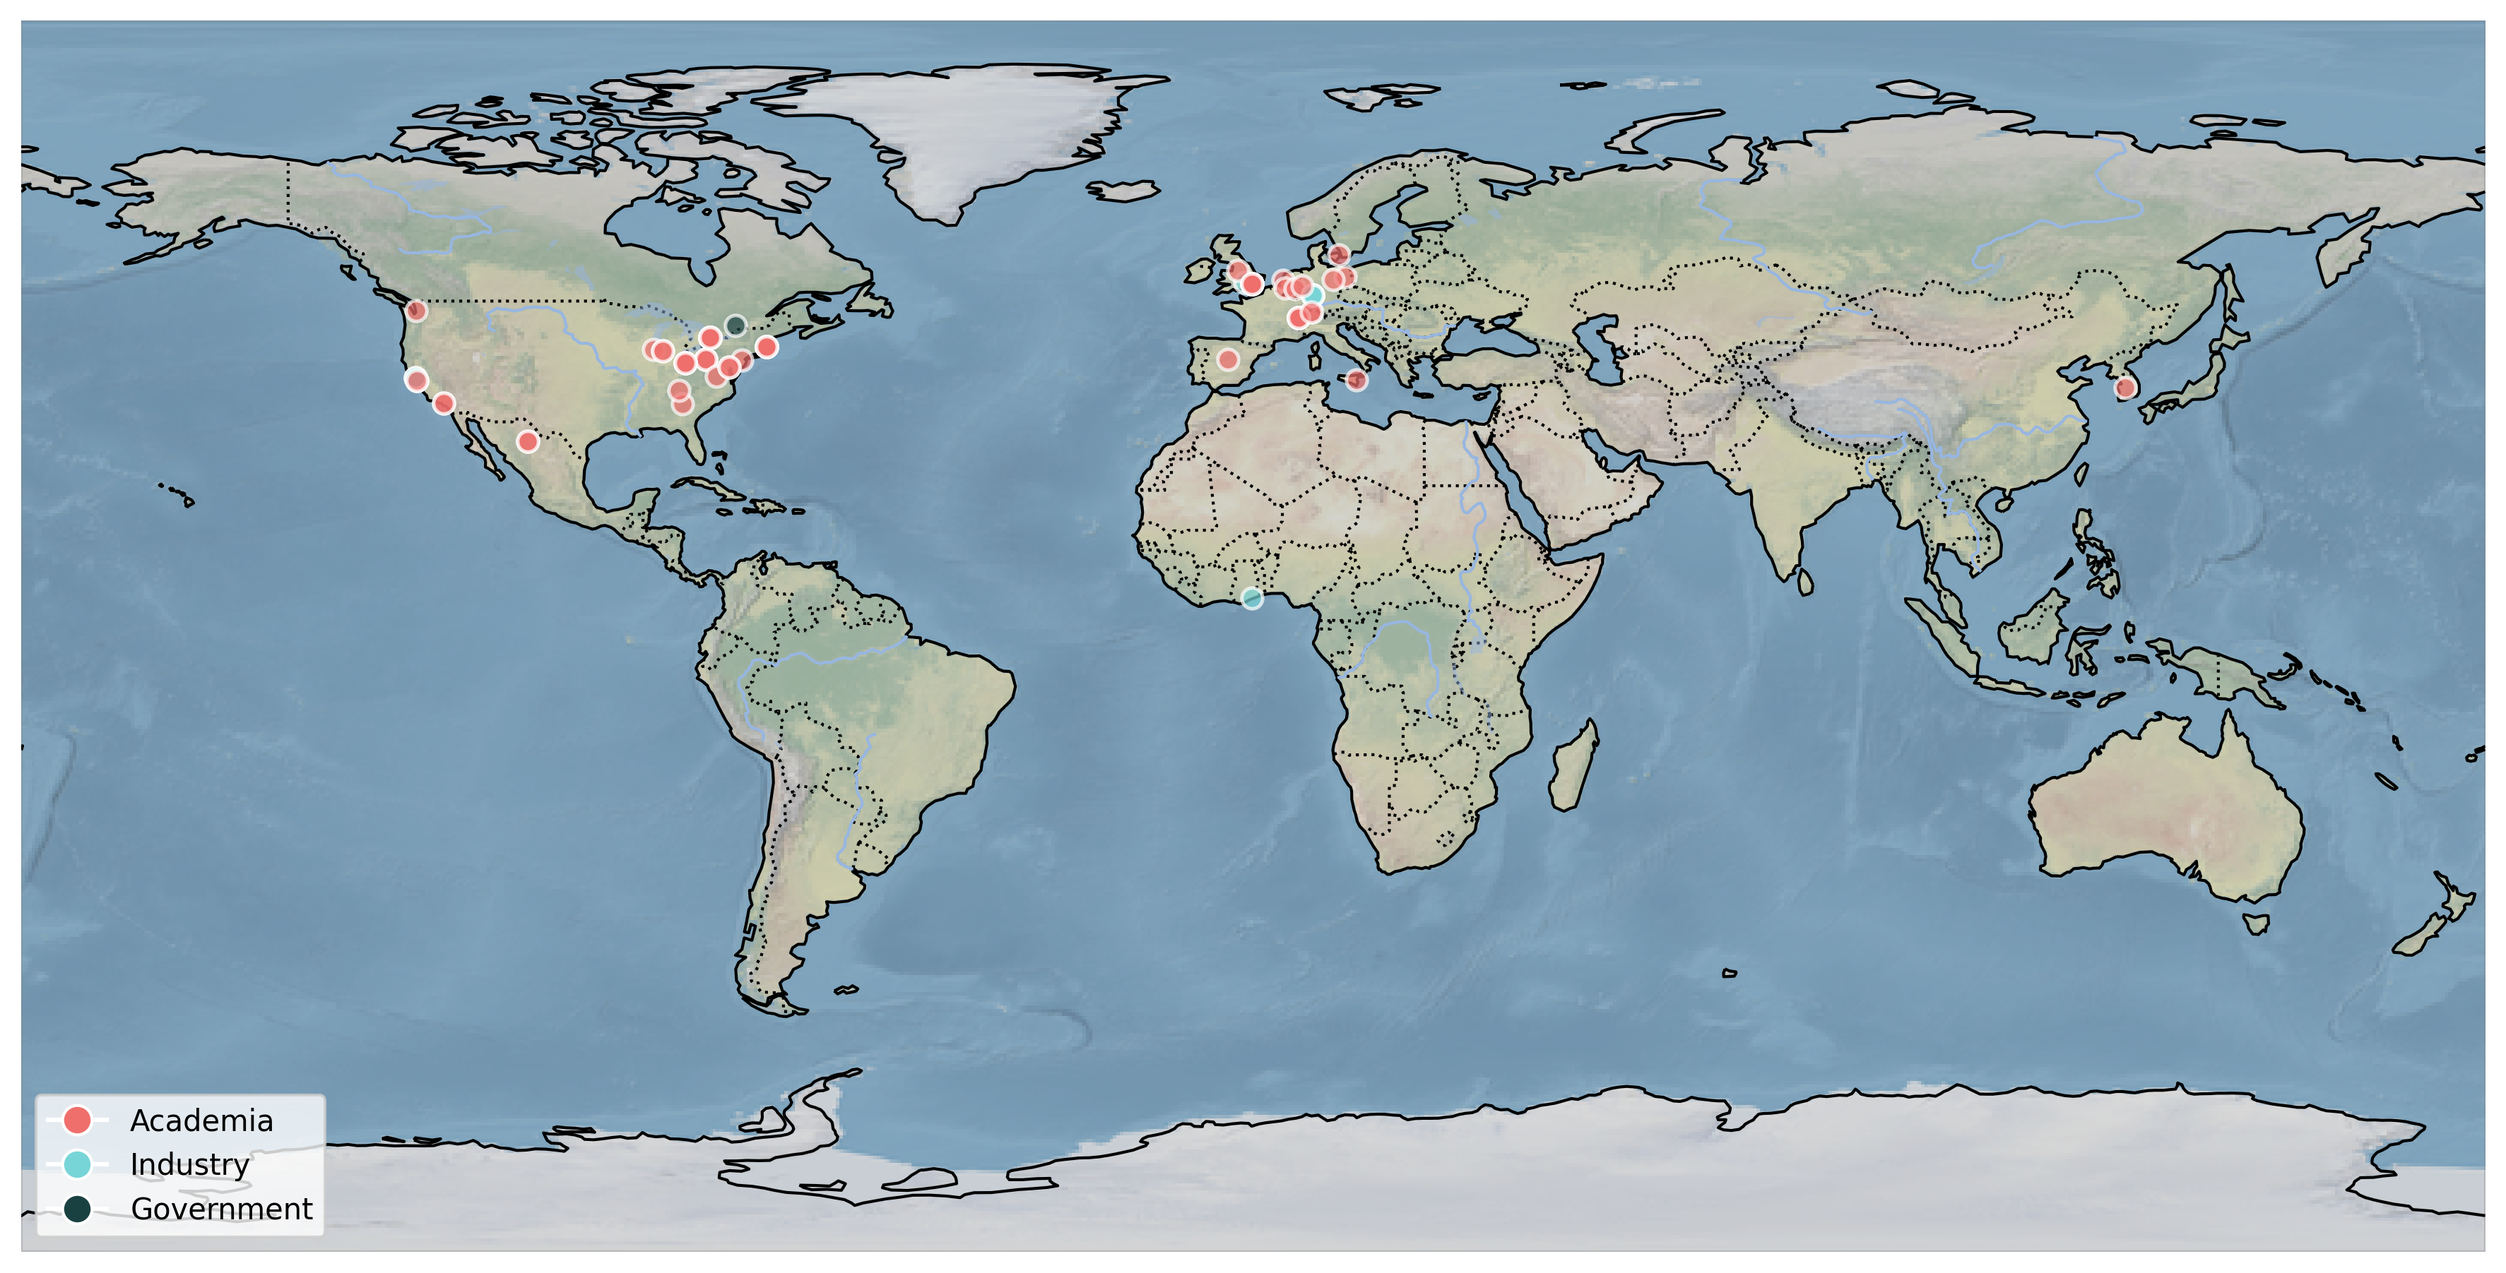
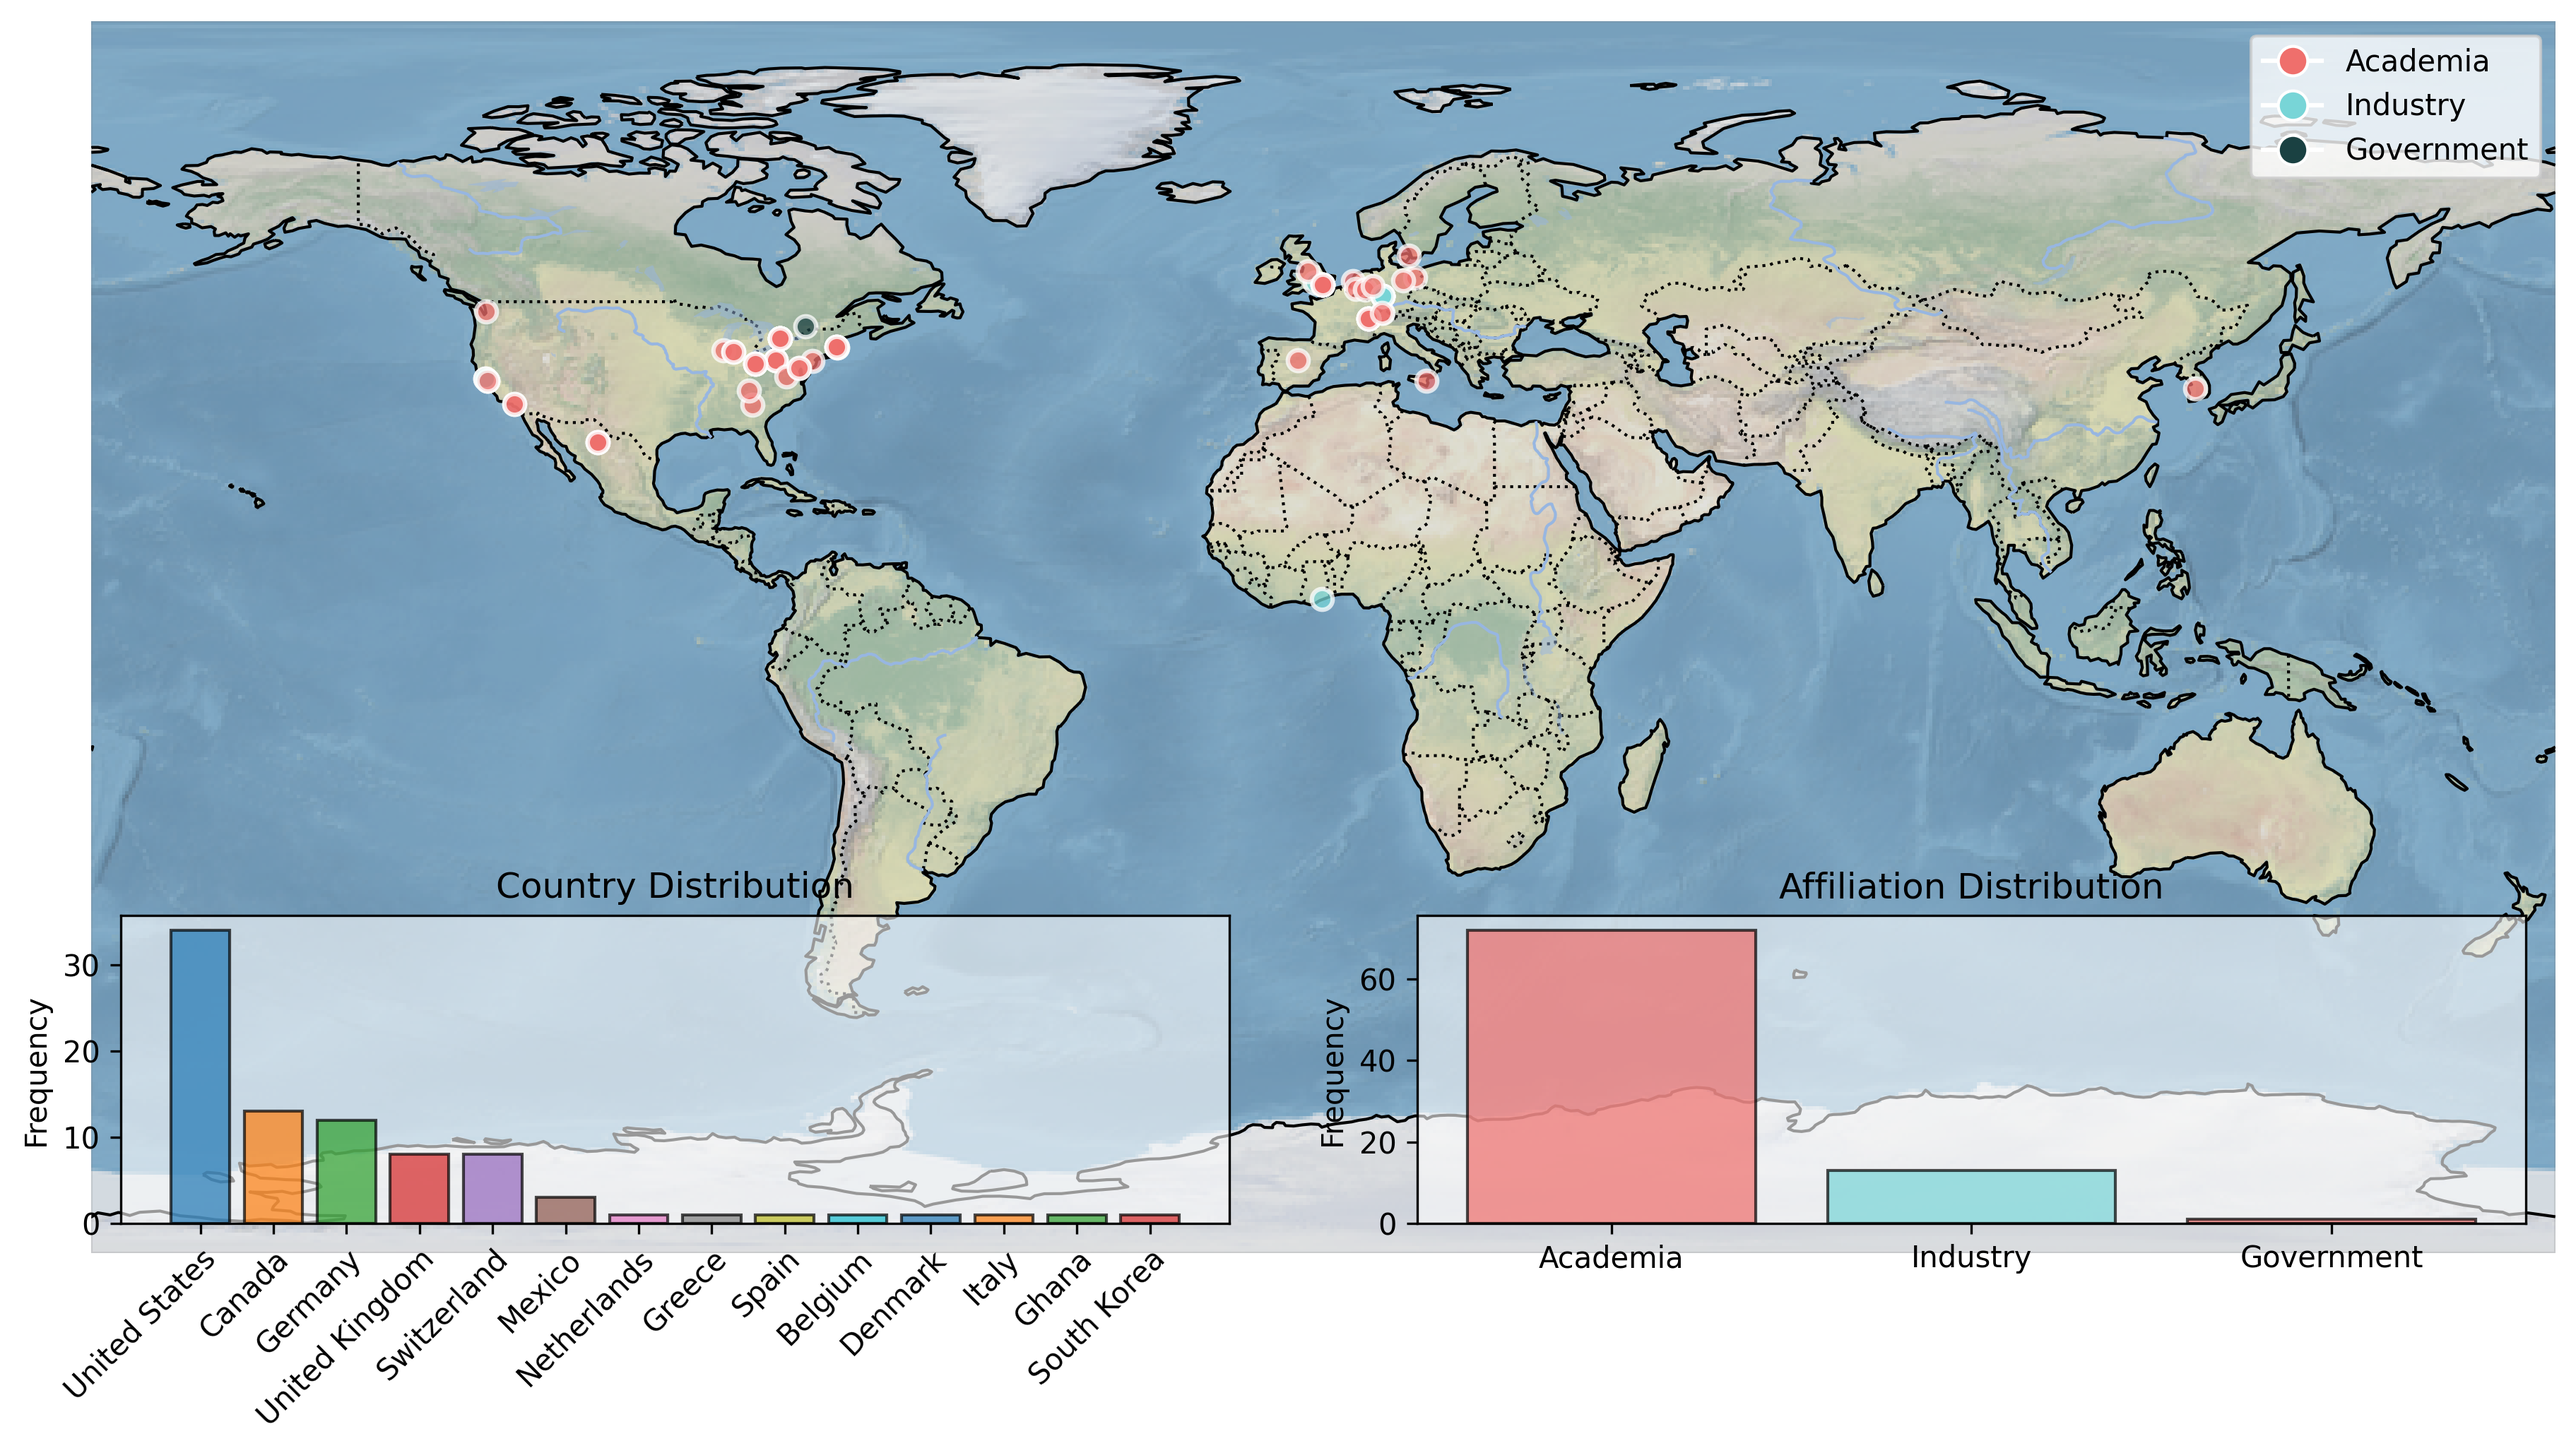
Updates from Overleaf

diff --git a/main.tex b/main.tex
@@ -1,7 +1,7 @@
 \PassOptionsToPackage{hyphens}{url}
-\documentclass[superscriptaddress, nofootinbib,  amsmath, amssymb, preprint]{revtex4-2}
+\documentclass[superscriptaddress, nofootinbib,  amsmath, amssymb, twocolumn]{revtex4-2}
 
-\usepackage[margin=1in]{geometry} 
+\usepackage[margin=1.5cm]{geometry} 
 \usepackage[english]{babel}
 \usepackage[utf8]{inputenc}
 \usepackage[]{graphicx}
@@ -169,9 +169,9 @@
 
 \usepackage{setspace}
 
-\clubpenalty=10000
-\widowpenalty=10000
-\displaywidowpenalty=10000
+% \clubpenalty=10000
+% \widowpenalty=10000
+% \displaywidowpenalty=10000
 \usepackage{titlesec}
 
 \titlespacing{\subsection}
@@ -206,29 +206,61 @@ The outputs from this event, including developed algorithms, benchmarks, and tut
 
 \section{Introduction}
 
-Bayesian optimization (BO) has emerged as a powerful tool in optimizing complex and expensive-to-evaluate functions, often outperforming traditional search methods in a variety of scientific domains such as optimizing composition and processing parameters to maximize alloy yield strength or identifying synthesis pathways that maximize efficacy of HIV drugs. Hackathons help people to connect, gain skills, and flesh out new ideas. In the words of Michelle Duke, the "Hackathon Queen":
+Bayesian optimization (BO) has emerged as a powerful tool in optimizing complex and expensive-to-evaluate functions, often outperforming traditional search methods in a variety of scientific domains such as optimizing composition and processing parameters to maximize alloy yield strength or identifying synthesis pathways that maximize efficacy of HIV drugs (\cref{fig:intro-bo}). Hackathons help people to connect, gain skills, and flesh out new ideas. In the words of Michelle Duke, the "Hackathon Queen":
 
 \begin{quote}
 A hackathon is a short competition where people work together in teams to solve problems and challenges by coming up with solutions and ideas.
 \end{quote}
+
+\begin{figure}
+    \centering
+    \includegraphics[width=1\linewidth]{latex/figures/intro-bo.png}
+    \caption{Optimization traces for various algorithms. Bayesian optimization (BO) typically outperforms traditional design of experiment (DoE) methods. It uses a smart model, often based on Gaussian Processes, to predict where to look next in an experiment to find the best results with minimal trials. This method is especially handy when dealing with experiments that don’t have straightforward outcomes or involve a lot of variables, which is often the case in these fields.}
+    \label{fig:intro-bo}
+\end{figure}
+
 
 The goal of the AC BO Hackathon was to leverage the expertise of a diverse, global community to advance the development and application of BO techniques for solving critical challenges in the physical sciences. The hackathon also aimed to foster collaboration and knowledge sharing among participants from different backgrounds, including academia, national laboratories, government agencies, and private industry. The event attracted 120 active participants from 44 teams, representing 41 academic institutions, 12 national labs, and 9 companies. Likewise, the participants were located in 38 cities, 14 countries, and 4 continents (\cref{fig:map}).
 
 \begin{figure}[h!]
     \centering
     % \captionsetup{justification=centering}
-    \includegraphics[width=1\textwidth]{latex/figures/world_map.png}
-    \caption{\textbf{Demographic distributions of the participating teams and their affiliations}. 
- \label{fig:map}}
+    \includegraphics[width=1\linewidth]{latex/figures/world_map.png}
+    \caption{Demographic distributions of the participating teams and their affiliations. \label{fig:map}}
 \end{figure}
+
+\begin{table*}[]
+\caption{List of projects and project types, with links to corresponding website project pages, repositories, videos, and social media posts.}
+\label{tab:projects}
+\setlength{\extrarowheight}{0.4em}
+\begin{tabularx}{\textwidth}{>{\centering\arraybackslash}p{1cm} X >{\centering\arraybackslash}X}
+\toprule
+\# & Project Name & Links \\ \midrule
+\href{https://example.com}{\#1} & Project A & 
+\href{https://github.com/example}{\faGithub} \,
+\href{https://youtube.com}{\faVideo} \,
+\href{https://twitter.com}{\faTwitter} \tabularnewline
+\href{https://example.com}{\#2} & Project B & 
+\href{https://github.com/example}{\faGithub} \,
+\href{https://youtube.com}{\faVideo} \,
+\href{https://linkedin.com}{\faLinkedin} \tabularnewline
+\href{https://example.com}{\#3} & Project C & 
+\href{https://github.com/example}{\faGithub} \,
+\href{https://youtube.com}{\faVideo} \,
+\href{https://twitter.com}{\faTwitter} \tabularnewline
+\bottomrule
+\end{tabularx}
+\end{table*}
+
 
 Participants were provided with various resources to prepare for the hackathon – this included GitHub classroom assignments with automated feedback, application- and theory-focused videos and tutorials, Python refresher materials, and a list of tools to consider using during the hackathon \cref{fig:preparation}.
 
+
 \begin{figure}
     \centering
-    \includegraphics[width=0.5\linewidth]{latex}
+    \includegraphics[width=1\linewidth]{latex/figures/preparation.png}
     \caption{Caption}
-    \label{fig:enter-label}
+    \label{fig:preparation}
 \end{figure}
 
 One of the unique aspects of this event is that it was hosted in Gather Town, a sort of union between traditional video conferencing software and retro arcade-style avatars and virtual spaces (\cref{fig:gathertown}).
@@ -280,6 +312,6 @@ One of the unique aspects of this event is that it was hosted in Gather Town, a 
 %\printglossaries
 
 % \bibliographystyle{achemso}
-% \bibliography{refs}
+\bibliography{latex/ac-bo-hackathon}
 
 \end{document}
